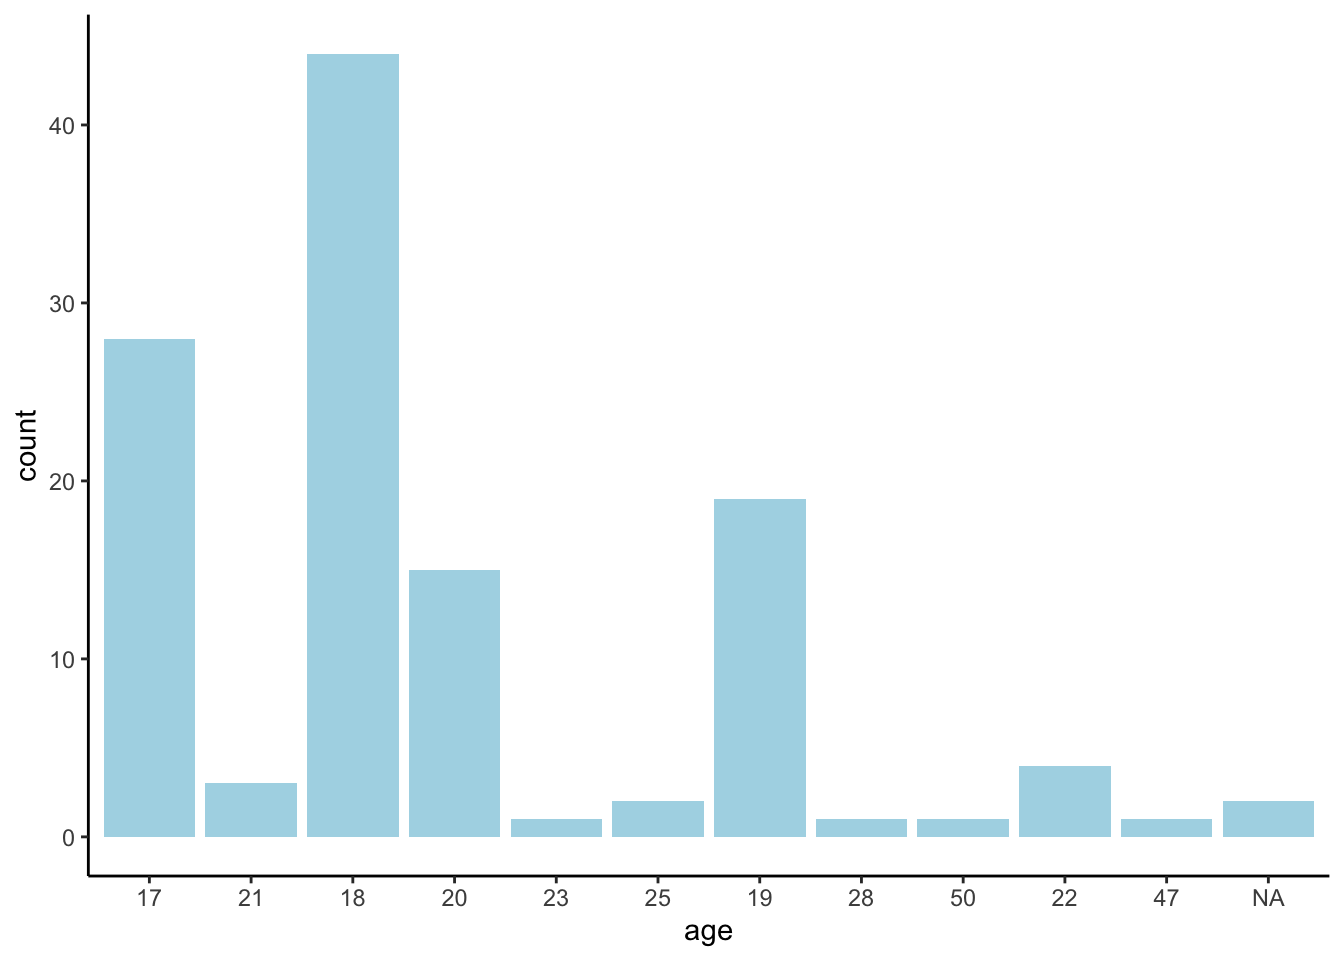
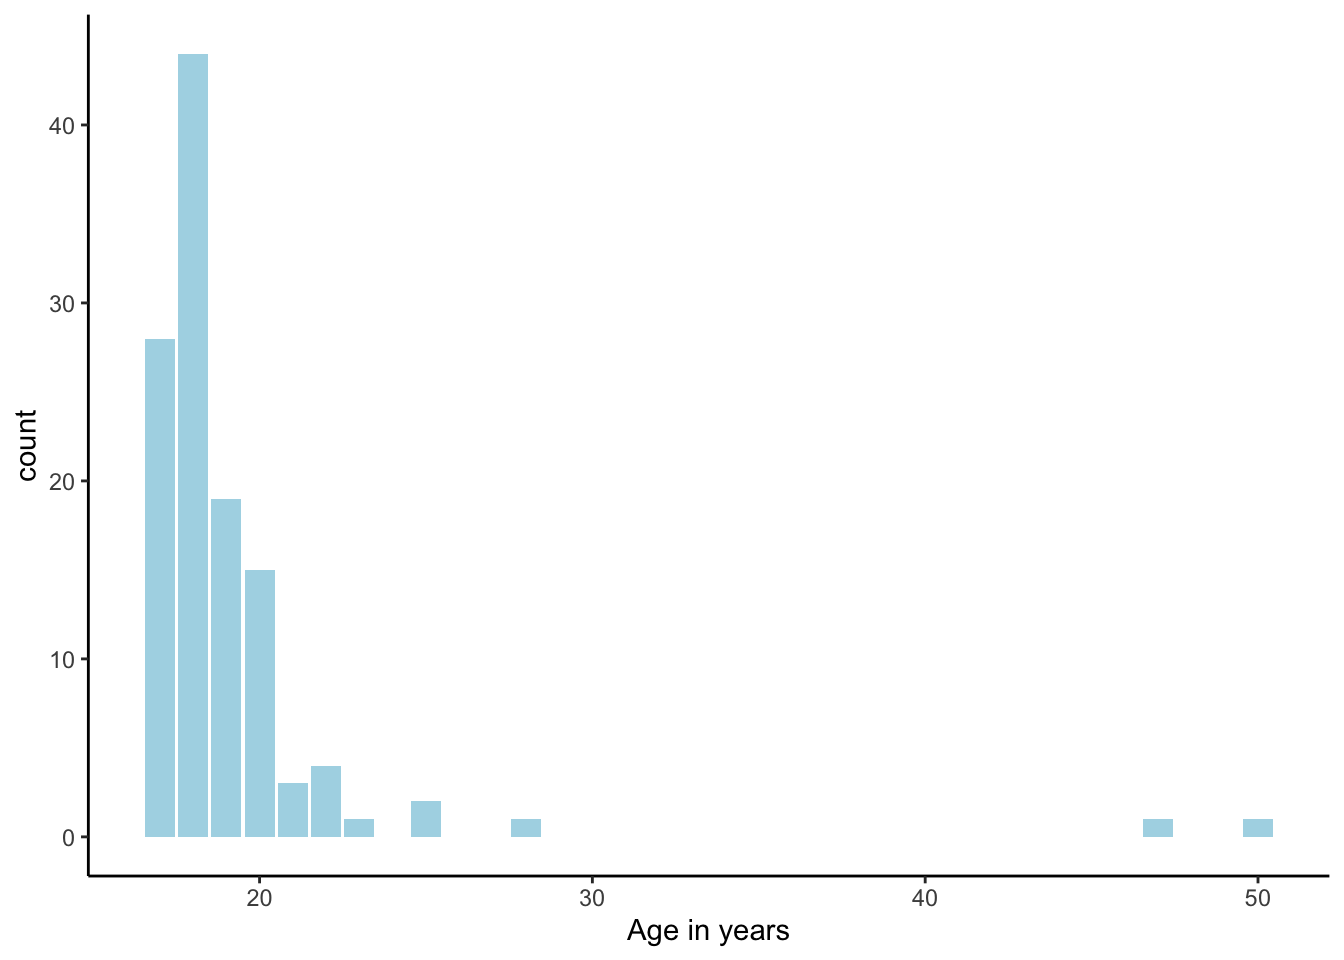
update html

diff --git a/docs/describe.html b/docs/describe.html
@@ -343,21 +343,12 @@ div.tocify {
         <span class="icon-bar"></span>
         <span class="icon-bar"></span>
       </button>
-      <a class="navbar-brand" href="index.html">Physiology and Musicla Emotions in Alexithymia</a>
+      <a class="navbar-brand" href="index.html">Physiology and Musical Emotions in Alexithymia</a>
     </div>
     <div id="navbar" class="navbar-collapse collapse">
       <ul class="nav navbar-nav">
         <li>
   <a href="index.html">Home</a>
-</li>
-<li>
-  <a href="data_cleaning.html">Data Preparation</a>
-</li>
-<li>
-  <a href="describe.html">Description of Self Report</a>
-</li>
-<li>
-  <a href="AffectRatings.html">Self-Report analysis</a>
 </li>
       </ul>
       <ul class="nav navbar-nav navbar-right">
@@ -413,7 +404,7 @@ div.section {
 <div class="tab-content">
 <div id="summary" class="tab-pane fade in active">
 <p>
-<strong>Last updated:</strong> 2019-11-14
+<strong>Last updated:</strong> 2019-11-17
 </p>
 <p>
 <strong>Checks:</strong> <span class="glyphicon glyphicon-ok text-success" aria-hidden="true"></span> 7 <span class="glyphicon glyphicon-exclamation-sign text-danger" aria-hidden="true"></span> 0
@@ -504,10 +495,10 @@ This reproducible <a href="http://rmarkdown.rstudio.com">R Markdown</a> analysis
 <div class="panel panel-default">
 <div class="panel-heading">
 <p class="panel-title">
-<a data-toggle="collapse" data-parent="#workflowr-checks" href="#strongRepositoryversionstrongahrefhttpsgithubcomjoellarwoodAlexithymiaMusicAffectPsychophysiology2019tree6c84622f01920c1ed1430d74c15b80a7242834d3targetblank6c84622a"> <span class="glyphicon glyphicon-ok text-success" aria-hidden="true"></span> <strong>Repository version:</strong> <a href="https://github.com/joellarwood/AlexithymiaMusicAffectPsychophysiology2019/tree/6c84622f01920c1ed1430d74c15b80a7242834d3" target="_blank">6c84622</a> </a>
+<a data-toggle="collapse" data-parent="#workflowr-checks" href="#strongRepositoryversionstrongahrefhttpsgithubcomjoellarwoodAlexithymiaMusicAffectPsychophysiology2019tree492e77665dd7ffd04d891d6345d1424d563eb0d2targetblank492e776a"> <span class="glyphicon glyphicon-ok text-success" aria-hidden="true"></span> <strong>Repository version:</strong> <a href="https://github.com/joellarwood/AlexithymiaMusicAffectPsychophysiology2019/tree/492e77665dd7ffd04d891d6345d1424d563eb0d2" target="_blank">492e776</a> </a>
 </p>
 </div>
[2 lines of base64/hex data omitted]
 <div class="panel-body">
 <p>
 Great! You are using Git for version control. Tracking code development and connecting the code version to the results is critical for reproducibility. The version displayed above was the version of the Git repository at the time these results were generated. <br><br> Note that you need to be careful to ensure that all relevant files for the analysis have been committed to Git prior to generating the results (you can use <code>wflow_publish</code> or <code>wflow_git_commit</code>). workflowr only checks the R Markdown file, but you know if there are other scripts or data files that it depends on. Below is the status of the Git repository when the results were generated:
@@ -536,11 +527,7 @@ Ignored files:
     Ignored:    data/.DS_Store
     Ignored:    dataAnalysis/.DS_Store
 
-Untracked files:
-    Untracked:  analysis/figure/
-
 Unstaged changes:
-    Modified:   Analysis/_site.yml
     Modified:   Analysis/describe.rmd
 
 </code></pre>
@@ -585,6 +572,40 @@ Message
 rmd
 </td>
 <td>
+<a href="https://github.com/joellarwood/AlexithymiaMusicAffectPsychophysiology2019/blob/492e77665dd7ffd04d891d6345d1424d563eb0d2/analysis/describe.rmd" target="_blank">492e776</a>
+</td>
+<td>
+Joel Larwood
+</td>
+<td>
+2019-11-15
+</td>
+<td>
+update layout
+</td>
+</tr>
+<tr>
+<td>
+html
+</td>
+<td>
+<a href="https://rawcdn.githack.com/joellarwood/AlexithymiaMusicAffectPsychophysiology2019/492e77665dd7ffd04d891d6345d1424d563eb0d2/docs/describe.html" target="_blank">492e776</a>
+</td>
+<td>
+Joel Larwood
+</td>
+<td>
+2019-11-15
+</td>
+<td>
+update layout
+</td>
+</tr>
+<tr>
+<td>
+rmd
+</td>
+<td>
 <a href="https://github.com/joellarwood/AlexithymiaMusicAffectPsychophysiology2019/blob/20bc296819e1b85e817c9955f9eeb8bf213f2465/analysis/describe.rmd" target="_blank">20bc296</a>
 </td>
 <td>
@@ -621,23 +642,11 @@ workflowr deploy
 </div>
 </div>
 </div>
-<pre><code>── Attaching packages ─────────────────────────────────────────────────── tidyverse 1.2.1 ──</code></pre>
-<pre><code>✔ ggplot2 3.2.1     ✔ purrr   0.3.3
-✔ tibble  2.1.3     ✔ dplyr   0.8.3
-✔ tidyr   1.0.0     ✔ stringr 1.4.0
-✔ readr   1.3.1     ✔ forcats 0.4.0</code></pre>
-<pre><code>── Conflicts ────────────────────────────────────────────────────── tidyverse_conflicts() ──
-✖ dplyr::filter() masks stats::filter()
-✖ dplyr::lag()    masks stats::lag()</code></pre>
-<pre><code>Loading required package: magrittr</code></pre>
-<pre><code>
-Attaching package: &#39;magrittr&#39;</code></pre>
-<pre><code>The following object is masked from &#39;package:purrr&#39;:
-
-    set_names</code></pre>
-<pre><code>The following object is masked from &#39;package:tidyr&#39;:
-
-    extract</code></pre>
+<pre class="r"><code>knitr::opts_chunk$set(warning = FALSE, message = FALSE)
+library(tidyverse)
+library(corrr)
+library(ggpubr)
+library(tableone)</code></pre>
 <div id="self-report-descriptives" class="section level1">
 <h1>Self Report Descriptives</h1>
 <div id="demographics-and-questionairres" class="section level2">
@@ -660,7 +669,8 @@ Attaching package: &#39;magrittr&#39;</code></pre>
      50    1 ( 0.8) 
      22    4 ( 3.4) 
      47    1 ( 0.8) </code></pre>
-<pre class="r"><code>ggplot2::ggplot(demographics, aes(age)) + 
+<pre class="r"><code>ggplot2::ggplot(demographics, aes(age_num)) +
+  ggplot2::xlab(&quot;Age in years&quot;) +
   geom_bar(fill = &quot;light blue&quot;) + 
   theme_classic() </code></pre>
 <p><img src="figure/describe.rmd/Age-1.png" width="672" style="display: block; margin: auto;" /></p>
@@ -860,7 +870,7 @@ joellarwood
  n obs: 121 
  n variables: 5 
 
-── Variable type:numeric ───────────────────────────────────────────────────────────────────
+── Variable type:numeric ───────────────────────────────────────────
    variable missing complete   n  mean    sd p0  p25 p50 p75 p100     hist
         DDF       2      119 121 14.13  4.26  5 12    13  17   25 ▂▅▆▇▅▆▁▁
  depression       2      119 121  4.71  3.97  0  1.5   4   7   18 ▇▂▅▃▁▁▁▁
@@ -873,8 +883,7 @@ demographics %&gt;%
   select(TAS, DIF, DDF, EOT, depression) %&gt;% 
   drop_na() %&gt;% 
   corrr::correlate() %&gt;% 
-  corrr::network_plot(min_cor = .18, 
-                      colors = c(&quot;red&quot;,&quot;green&quot;, &quot;blue&quot;))</code></pre>
+  corrr::network_plot(colors = c(&quot;red&quot;,&quot;green&quot;, &quot;blue&quot;))</code></pre>
 <p><img src="figure/describe.rmd/selfreportmeasures-1.png" width="672" style="display: block; margin: auto;" /></p>
 <p>
 <button type="button" class="btn btn-default btn-xs btn-workflowr btn-workflowr-fig" data-toggle="collapse" data-target="#fig-selfreportmeasures-1">
@@ -913,6 +922,36 @@ joellarwood
 </table>
 </div>
 </div>
+<pre class="r"><code>demographics %&gt;% 
+  select(TAS, DIF, DDF, EOT, depression) %&gt;% 
+  apaTables::apa.cor.table()</code></pre>
+<pre><code>
+
+Means, standard deviations, and correlations with confidence intervals
+ 
+
+  Variable      M     SD    1          2           3          4          
+  1. TAS        50.31 10.44                                              
+                                                                         
+  2. DIF        17.50 5.33  .85**                                        
+                            [.79, .89]                                   
+                                                                         
+  3. DDF        14.13 4.26  .85**      .69**                             
+                            [.79, .90] [.59, .78]                        
+                                                                         
+  4. EOT        18.69 4.13  .56**      .13         .23*                  
+                            [.42, .67] [-.05, .31] [.05, .39]            
+                                                                         
+  5. depression 4.71  3.97  .44**      .52**       .36**      .05        
+                            [.28, .57] [.38, .64]  [.20, .51] [-.13, .23]
+                                                                         
+
+Note. M and SD are used to represent mean and standard deviation, respectively.
+Values in square brackets indicate the 95% confidence interval.
+The confidence interval is a plausible range of population correlations 
+that could have caused the sample correlation (Cumming, 2014).
+* indicates p &lt; .05. ** indicates p &lt; .01.
+ </code></pre>
 </div>
 </div>
 <div id="songs" class="section level2">
@@ -1037,8 +1076,9 @@ joellarwood
   pivot_longer(cols = contains(&quot;rating&quot;), 
              names_to = &quot;emotion&quot;, 
              values_to = &quot;rating&quot;
-             )</code></pre>
-<pre class="r"><code>describeratings &lt;- emotionratinglong %&gt;% 
+             )
+
+describeratings &lt;- emotionratinglong %&gt;% 
   group_by(songmark, emotion) %&gt;% 
   summarise(Mean = round(mean(rating), digits = 2), 
             SD = round(sd(rating), digits = 2)) %&gt;% 
@@ -1048,8 +1088,9 @@ joellarwood
                                           &quot;Happy&quot;, if_else(songmark == 9 | songmark == 10 | songmark == 11 | songmark == 12,
                                                            &quot;Sad&quot;, &quot;Tender&quot;))
                           ), 
-         song = glue::glue(&quot;{target}_{songmark}&quot;)) </code></pre>
-<pre class="r"><code>ggplot2::ggplot(describeratings, 
+         song = glue::glue(&quot;{target}_{songmark}&quot;)) 
+
+ggplot2::ggplot(describeratings, 
                 aes(x = emotion, 
                     y = Mean, 
                     fill = emotion
@@ -1061,7 +1102,44 @@ joellarwood
   theme_classic ()+
   theme(axis.text.x = element_text(size = 8, 
                                    angle = 270))</code></pre>
-<p><img src="figure/describe.rmd/tmp2-1.png" width="672" style="display: block; margin: auto;" /></p>
+<p><img src="figure/describe.rmd/specificemotions-1.png" width="672" style="display: block; margin: auto;" /></p>
+<p>
+<button type="button" class="btn btn-default btn-xs btn-workflowr btn-workflowr-fig" data-toggle="collapse" data-target="#fig-specificemotions-1">
+Past versions of specificemotions-1.png
+</button>
+</p>
+<div id="fig-specificemotions-1" class="collapse">
+<div class="table-responsive">
+<table class="table table-condensed table-hover">
+<thead>
+<tr>
+<th>
+Version
+</th>
+<th>
+Author
+</th>
+<th>
+Date
+</th>
+</tr>
+</thead>
+<tbody>
+<tr>
+<td>
+<a href="https://github.com/joellarwood/AlexithymiaMusicAffectPsychophysiology2019/blob/20bc296819e1b85e817c9955f9eeb8bf213f2465/docs/figure/describe.rmd/specificemotions-1.png" target="_blank">20bc296</a>
+</td>
+<td>
+joellarwood
+</td>
+<td>
+2019-11-14
+</td>
+</tr>
+</tbody>
+</table>
+</div>
+</div>
 <pre class="r"><code>describeratings %&gt;% 
   mutate(Mean_SD = glue::glue(&quot;{Mean} ({SD})&quot;)) %&gt;% 
   select(song, emotion, Mean_SD) %&gt;% 
@@ -1379,8 +1457,8 @@ loaded via a namespace (and not attached):
  [4] here_0.1          lattice_0.20-38   assertthat_0.2.1 
  [7] zeallot_0.1.0     rprojroot_1.3-2   digest_0.6.22    
 [10] R6_2.4.0          cellranger_1.1.0  backports_1.1.5  
-[13] survey_3.36       evaluate_0.14     httr_1.4.1       
-[16] highr_0.8         pillar_1.4.2      rlang_0.4.1      
+[13] survey_3.36       evaluate_0.14     highr_0.8        
+[16] httr_1.4.1        pillar_1.4.2      rlang_0.4.1      
 [19] lazyeval_0.2.2    readxl_1.3.1      rstudioapi_0.10  
 [22] whisker_0.4       Matrix_1.2-17     rmarkdown_1.16   
 [25] labeling_0.3      splines_3.6.1     munsell_0.5.0    
@@ -1394,9 +1472,9 @@ loaded via a namespace (and not attached):
 [49] ggsignif_0.6.0    fs_1.3.1          skimr_1.0.7      
 [52] xml2_1.2.2        ellipsis_0.3.0    generics_0.0.2   
 [55] vctrs_0.2.0       tools_3.6.1       glue_1.3.1       
-[58] hms_0.5.0         survival_2.44-1.1 yaml_2.2.0       
-[61] colorspace_1.4-1  rvest_0.3.4       knitr_1.25       
-[64] haven_2.1.1      </code></pre>
+[58] hms_0.5.0         apaTables_2.0.5   survival_2.44-1.1
+[61] yaml_2.2.0        colorspace_1.4-1  rvest_0.3.4      
+[64] knitr_1.25        haven_2.1.1      </code></pre>
 </div>
 </div>
 </div>

diff --git a/docs/index.html b/docs/index.html
@@ -271,21 +271,12 @@ $(document).ready(function () {
         <span class="icon-bar"></span>
         <span class="icon-bar"></span>
       </button>
-      <a class="navbar-brand" href="index.html">Physiology and Musicla Emotions in Alexithymia</a>
+      <a class="navbar-brand" href="index.html">Physiology and Musical Emotions in Alexithymia</a>
     </div>
     <div id="navbar" class="navbar-collapse collapse">
       <ul class="nav navbar-nav">
         <li>
   <a href="index.html">Home</a>
-</li>
-<li>
-  <a href="data_cleaning.html">Data Preparation</a>
-</li>
-<li>
-  <a href="describe.html">Description of Self Report</a>
-</li>
-<li>
-  <a href="AffectRatings.html">Self-Report analysis</a>
 </li>
       </ul>
       <ul class="nav navbar-nav navbar-right">
@@ -339,7 +330,7 @@ div.section {
 <div class="tab-content">
 <div id="summary" class="tab-pane fade in active">
 <p>
-<strong>Last updated:</strong> 2019-11-14
+<strong>Last updated:</strong> 2019-11-17
 </p>
 <p>
 <strong>Checks:</strong> <span class="glyphicon glyphicon-ok text-success" aria-hidden="true"></span> 2 <span class="glyphicon glyphicon-exclamation-sign text-danger" aria-hidden="true"></span> 0
@@ -370,10 +361,10 @@ This reproducible <a href="http://rmarkdown.rstudio.com">R Markdown</a> analysis
 <div class="panel panel-default">
 <div class="panel-heading">
 <p class="panel-title">
-<a data-toggle="collapse" data-parent="#workflowr-checks" href="#strongRepositoryversionstrongahrefhttpsgithubcomjoellarwoodAlexithymiaMusicAffectPsychophysiology2019tree7112720ba8cb3edb0703be6c5bc46869148d7fdatargetblank7112720a"> <span class="glyphicon glyphicon-ok text-success" aria-hidden="true"></span> <strong>Repository version:</strong> <a href="https://github.com/joellarwood/AlexithymiaMusicAffectPsychophysiology2019/tree/7112720ba8cb3edb0703be6c5bc46869148d7fda" target="_blank">7112720</a> </a>
+<a data-toggle="collapse" data-parent="#workflowr-checks" href="#strongRepositoryversionstrongahrefhttpsgithubcomjoellarwoodAlexithymiaMusicAffectPsychophysiology2019tree492e77665dd7ffd04d891d6345d1424d563eb0d2targetblank492e776a"> <span class="glyphicon glyphicon-ok text-success" aria-hidden="true"></span> <strong>Repository version:</strong> <a href="https://github.com/joellarwood/AlexithymiaMusicAffectPsychophysiology2019/tree/492e77665dd7ffd04d891d6345d1424d563eb0d2" target="_blank">492e776</a> </a>
 </p>
 </div>
[2 lines of base64/hex data omitted]
 <div class="panel-body">
 <p>
 Great! You are using Git for version control. Tracking code development and connecting the code version to the results is critical for reproducibility. The version displayed above was the version of the Git repository at the time these results were generated. <br><br> Note that you need to be careful to ensure that all relevant files for the analysis have been committed to Git prior to generating the results (you can use <code>wflow_publish</code> or <code>wflow_git_commit</code>). workflowr only checks the R Markdown file, but you know if there are other scripts or data files that it depends on. Below is the status of the Git repository when the results were generated:
@@ -403,9 +394,7 @@ Ignored files:
     Ignored:    dataAnalysis/.DS_Store
 
 Unstaged changes:
-    Modified:   Analysis/_site.yml
     Modified:   Analysis/describe.rmd
-    Modified:   Analysis/index.Rmd
 
 </code></pre>
 <p>
@@ -444,6 +433,40 @@ Message
 </tr>
 </thead>
 <tbody>
+<tr>
+<td>
+Rmd
+</td>
+<td>
+<a href="https://github.com/joellarwood/AlexithymiaMusicAffectPsychophysiology2019/blob/492e77665dd7ffd04d891d6345d1424d563eb0d2/analysis/index.Rmd" target="_blank">492e776</a>
+</td>
+<td>
+Joel Larwood
+</td>
+<td>
+2019-11-15
+</td>
+<td>
+update layout
+</td>
+</tr>
+<tr>
+<td>
+html
+</td>
+<td>
+<a href="https://rawcdn.githack.com/joellarwood/AlexithymiaMusicAffectPsychophysiology2019/492e77665dd7ffd04d891d6345d1424d563eb0d2/docs/index.html" target="_blank">492e776</a>
+</td>
+<td>
+Joel Larwood
+</td>
+<td>
+2019-11-15
+</td>
+<td>
+update layout
+</td>
+</tr>
 <tr>
 <td>
 html
@@ -561,10 +584,10 @@ add files
 <h2><a href="data_cleaning.html">Data Preparation</a></h2>
 </div>
 <div id="descriptives-of-self-report" class="section level2">
-<h2><a href="./docs/describe.html">Descriptives of Self Report</a></h2>
+<h2><a href="describe.html">Descriptives of Self Report</a></h2>
 </div>
 <div id="self-reported-affect" class="section level2">
-<h2><a href="./docs/AffectRatings.html">Self Reported Affect</a></h2>
+<h2><a href="AffectRatings.html">Self Reported Affect</a></h2>
 <p>The data used can be accessed in this <a href="https://github.com/joellarwood/AlexithymiaMusicAffectPsychophysiology2019/tree/master/data">folder</a> on the project <a href="https://github.com/joellarwood/AlexithymiaMusicAffectPsychophysiology2019">repository</a>. You can also se archives of my work on this project data to early 2019 in this <a href="https://github.com/joellarwood/AlexithymiaMusicAffectPsychophysiology2019/tree/master/Archives">folder</a></p>
 </div>
 </div>
